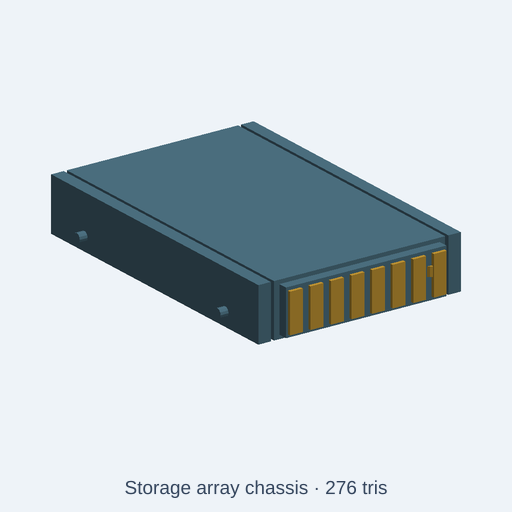
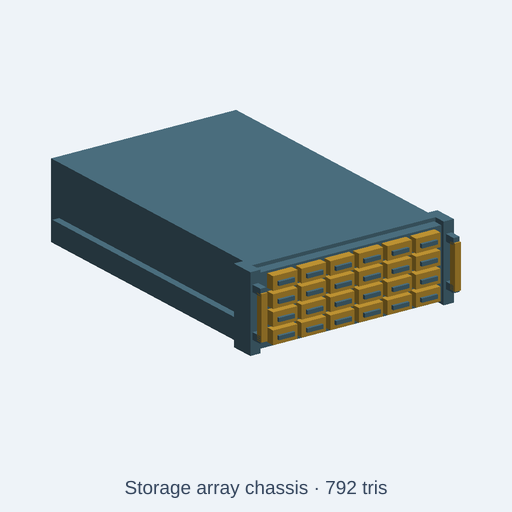
fix(catalog): give storage array distinct 24-bay geometry

Changed region(s): [[0.0938, 0.2188, 0.9062, 0.7188], [0.625, 0.9375, 0.7188, 0.9688]]

diff --git a/catalog/kits/data-center-infrastructure/storage-array-chassis.kcad.ts b/catalog/kits/data-center-infrastructure/storage-array-chassis.kcad.ts
@@ -1,12 +1,15 @@
 // SPDX-License-Identifier: CC0-1.0
-// Storage array chassis: Rack storage chassis with drive carriers, controller bays, and paired handles.
+// Storage array chassis: illustrative 4U, 24-bay rack storage system. Unlike
+// a compute server, the front is mostly removable drive carriers and the back
+// has two separate controller modules. Low-poly scene geometry, millimetres,
+// Z up, not a vendor chassis or a fabrication-ready model.
 
 meta({
-  name: "storage-array-chassis",
+  name: 'storage-array-chassis',
   license: 'CC0-1.0',
-  title: "Storage array chassis",
-  description: "Rack storage chassis with drive carriers, controller bays, and paired handles. Knobs: overall scale; painted steel, engineering polymer. Presets: facilityStandard and highVisibility.",
-  tags: ['data center', 'critical infrastructure', 'IT equipment', 'power', 'cooling', 'scene prop'],
+  title: 'Storage array chassis',
+  description: 'Illustrative CC0 low-poly 4U storage array with 24 distinct front drive carriers in a 6×4 grid, paired pull handles, two rear controller bays, two rear power modules, rack ears and slide rails. Not a vendor manufacturing model. Material controls: painted steel and engineering polymer; facilityStandard and highVisibility presets.',
+  tags: ['data center', 'storage array', 'rack enclosure', 'server storage', 'drive bay', 'IT equipment', 'low poly', 'scene prop', 'CC0'],
   kit: 'data-center-infrastructure',
   category: 'prop',
   origin: 'base',
@@ -17,38 +20,43 @@ meta({
 const scale = param('scale', 1, { min: 0.7, max: 1.3, step: 0.05, label: 'Overall scale' });
 const steel = param('steel', '#4f7485', { label: 'Painted steel' });
 const polymer = param('polymer', '#c99b35', { label: 'Engineering polymer' });
-
 presets({
-  facilityStandard: {
-    steel: '#4f7485',
-    polymer: '#c99b35',
-  },
-  highVisibility: {
-    steel: '#d99b22',
-    polymer: '#263e48',
-  },
+  facilityStandard: { steel: '#4f7485', polymer: '#c99b35' },
+  highVisibility: { steel: '#d99b22', polymer: '#263e48' },
 });
 
-const baseZ = 0;
-const b=(x:number,y:number,z:number,w:number,d:number,h:number)=>box(w,d,h,true).translate(x,y,z-baseZ+h/2).scale(scale);
-const c=(x:number,y:number,z:number,h:number,r:number,n=10)=>cylinder(h,r,n).translate(x,y,z-baseZ).scale(scale);
-const hx=(x:number,y:number,z:number,l:number,r:number,n=10)=>cylinder(l,r,n).alongAxis([1,0,0]).translate(x-l/2,y,z-baseZ).scale(scale);
+const p = assembly('storage-array-chassis');
+// Boxes are specified by their bottom Z coordinate; keep Z=0 as the base.
+const body = (x: number, y: number, z: number, w: number, d: number, h: number) =>
+  box(w, d, h, true).translate(x, y, z + h / 2).scale(scale);
 
-const p=assembly("storage-array-chassis");
-p.part("chassis-shell", b(0, 0, 0, 440, 760, 135).color(steel));
-p.part("front-face", b(0, -392.0, 10, 412, 24, 115).color(steel));
-p.part("left-mounting-ear", b(-244.0, 0, 0, 32, 760, 135).color(steel));
-p.part("right-mounting-ear", b(244.0, 0, 0, 32, 760, 135).color(steel));
-p.part("slide-rail-left", hx(0, -258.40000000000003, 35, 560, 12, 8).color(steel));
-p.part("slide-rail-right", hx(0, 258.40000000000003, 35, 560, 12, 8).color(steel));
-p.part("drive-carrier-0", b(-184.79999999999998, -398.0, 18, 33.0, 28, 99).color(polymer));
-p.part("drive-carrier-1", b(-132.0, -398.0, 18, 33.0, 28, 99).color(polymer));
-p.part("drive-carrier-2", b(-79.19999999999999, -398.0, 18, 33.0, 28, 99).color(polymer));
-p.part("drive-carrier-3", b(-26.400000000000006, -398.0, 18, 33.0, 28, 99).color(polymer));
-p.part("drive-carrier-4", b(26.400000000000006, -398.0, 18, 33.0, 28, 99).color(polymer));
-p.part("drive-carrier-5", b(79.20000000000002, -398.0, 18, 33.0, 28, 99).color(polymer));
-p.part("drive-carrier-6", b(131.99999999999997, -398.0, 18, 33.0, 28, 99).color(polymer));
-p.part("drive-carrier-7", b(184.79999999999998, -398.0, 18, 33.0, 28, 99).color(polymer));
-p.part("status-control", c(167.2, -398.0, 64.8, 24, 12, 8).color(polymer));
+// 4U approximate 19-inch rack envelope (176 mm high); front is negative Y.
+p.part('chassis-shell', body(0, 0, 0, 440, 680, 176).color(steel));
+p.part('front-panel', body(0, -352, 8, 430, 24, 160).color(steel));
+for (const [name, x] of [['left', -230], ['right', 230]] as const) {
+  p.part(`rack-ear-${name}`, body(x, -340, 0, 24, 56, 176).color(steel));
+  p.part(`slide-rail-${name}`, body(x, 0, 29, 16, 620, 32).color(steel));
+  // Exposed grip bar and its two attachments form a usable front pull handle.
+  p.part(`handle-${name}`, body(x, -391, 37, 14, 16, 102).color(polymer));
+  p.part(`handle-${name}-lower-mount`, body(x, -375, 33, 14, 40, 16).color(steel));
+  p.part(`handle-${name}-upper-mount`, body(x, -375, 133, 14, 40, 16).color(steel));
+}
+
+// 24 individually removable front carriers: six columns, four rows.
+for (let row = 0; row < 4; row++) {
+  for (let col = 0; col < 6; col++) {
+    const x = -170 + 68 * col;
+    const z = 18 + 38 * row;
+    p.part(`drive-carrier-${row}-${col}`, body(x, -373, z, 58, 22, 31).color(polymer));
+    p.part(`drive-grip-${row}-${col}`, body(x, -387, z + 10, 38, 6, 9).color(steel));
+  }
+}
+
+// Rear redundant controllers and two separately serviceable power modules.
+for (const [name, x] of [['left', -106], ['right', 106]] as const) {
+  p.part(`rear-controller-${name}`, body(x, 353, 60, 172, 26, 80).color(polymer));
+  p.part(`rear-controller-pull-${name}`, body(x, 369, 88, 110, 8, 14).color(steel));
+  p.part(`rear-power-module-${name}`, body(x, 352, 12, 172, 24, 36).color(steel));
+}
 
 return p.model();

diff --git a/tests/integration/catalog/storageArrayFidelity.test.ts b/tests/integration/catalog/storageArrayFidelity.test.ts
@@ -1,0 +1,81 @@
+// SPDX-License-Identifier: MIT
+// The live storage array previously copied the compute chassis mesh exactly.
+// Verify functional storage-specific geometry in the exported GLB, not only PNGs.
+import { beforeAll, describe, expect, it } from 'vitest';
+import { readFileSync } from 'node:fs';
+import { resolve } from 'node:path';
+import { initOcct } from '../../../src/kernel/backends/occt/occtBackend';
+import { buildCatalogAssetWithGlb } from '../../../src/agent/catalog/buildCatalog';
+import { runAndExport } from '../../../src/agent/script-runtime/export';
+import { glbTriangles } from '../../../scripts/lib/glbSoftwareRender';
+
+const root = resolve(import.meta.dirname, '../../..');
+const file = resolve(root, 'catalog/kits/data-center-infrastructure/storage-array-chassis.kcad.ts');
+
+type Gltf = {
+  nodes: { name?: string; mesh?: number }[];
+  meshes: { primitives: { attributes: { POSITION: number } }[] }[];
+  accessors: { min?: number[]; max?: number[] }[];
+};
+function namedBounds(glb: Uint8Array | Buffer): Map<string, { min: number[]; max: number[] }> {
+  const b = Buffer.from(glb);
+  expect(b.toString('ascii', 0, 4)).toBe('glTF');
+  const data = JSON.parse(b.subarray(20, 20 + b.readUInt32LE(12)).toString('utf8')) as Gltf;
+  const out = new Map<string, { min: number[]; max: number[] }>();
+  for (const node of data.nodes) {
+    if (!node.name || node.mesh === undefined) continue;
+    const accessor = data.accessors[data.meshes[node.mesh]!.primitives[0]!.attributes.POSITION]!;
+    if (accessor.min && accessor.max) out.set(node.name, { min: accessor.min, max: accessor.max });
+  }
+  return out;
+}
+function assert24BayArray(glb: Uint8Array | Buffer, scale = 1) {
+  const parts = namedBounds(glb);
+  const carriers = [...parts.keys()].filter(k => /^drive-carrier-\d-\d$/.test(k));
+  const grips = [...parts.keys()].filter(k => /^drive-grip-\d-\d$/.test(k));
+  expect(carriers).toHaveLength(24);
+  expect(grips).toHaveLength(24);
+  for (const name of ['front-panel', 'chassis-shell', 'rack-ear-left', 'rack-ear-right',
+    'handle-left', 'handle-right', 'rear-controller-left', 'rear-controller-right',
+    'rear-power-module-left', 'rear-power-module-right']) expect(parts.has(name), name).toBe(true);
+  for (let row = 0; row < 4; row++) for (let col = 0; col < 6; col++) {
+    const carrier = parts.get(`drive-carrier-${row}-${col}`)!;
+    const center = carrier.min.map((v, i) => (v + carrier.max[i]!) / 2);
+    expect(center[0]).toBeCloseTo((-170 + 68 * col) * scale, 3);
+    expect(center[1]).toBeCloseTo(-373 * scale, 3);
+    expect(center[2]).toBeCloseTo((18 + 38 * row + 15.5) * scale, 3);
+  }
+  const shell = parts.get('chassis-shell')!;
+  expect(shell.min[2]).toBeCloseTo(0, 3);
+  expect(shell.max[2]).toBeCloseTo(176 * scale, 3);
+}
+
+beforeAll(async () => { await initOcct(); });
+
+describe('storage-array catalogue scene prop', () => {
+  it('is visibly distinct from the 8-bay compute chassis and includes 24 front carriers', async () => {
+    const storage = await buildCatalogAssetWithGlb(root, 'catalog/kits/data-center-infrastructure/storage-array-chassis.kcad.ts');
+    const server = await buildCatalogAssetWithGlb(root, 'catalog/kits/data-center-infrastructure/high-density-server-chassis.kcad.ts');
+    expect(storage.asset.category).toBe('prop');
+    expect(storage.asset.description).toMatch(/not a vendor manufacturing model/i);
+    expect(storage.asset.stats.minUpM).toBeCloseTo(0, 6);
+    expect(storage.asset.stats.triangles).toBeLessThanOrEqual(storage.asset.triangleBudget);
+    assert24BayArray(storage.glb);
+    expect([...namedBounds(server.glb).keys()].filter(k => /^drive-carrier-\d+$/.test(k))).toHaveLength(8);
+    expect((await glbTriangles(storage.glb)).length).not.toBe((await glbTriangles(server.glb)).length);
+  }, 30000);
+
+  it('keeps the drive and service-module identities at both supported scale limits', async () => {
+    const source = readFileSync(file, 'utf8');
+    for (const scale of [0.7, 1.3]) {
+      const code = source.replace("param('scale', 1", `param('scale', ${scale}`);
+      expect(code).not.toBe(source);
+      const exported = await runAndExport({
+        code, fileName: 'storage-array-chassis.kcad.ts', scriptDir: resolve(file, '..'),
+        format: 'glb', options: { format: 'glb', style: 'lowpoly', lowpoly: { maxTriangles: 2200 } },
+      });
+      expect(exported.diagnostics.filter(d => d.severity === 'error')).toEqual([]);
+      assert24BayArray(exported.bytes, scale);
+    }
+  }, 30000);
+});
